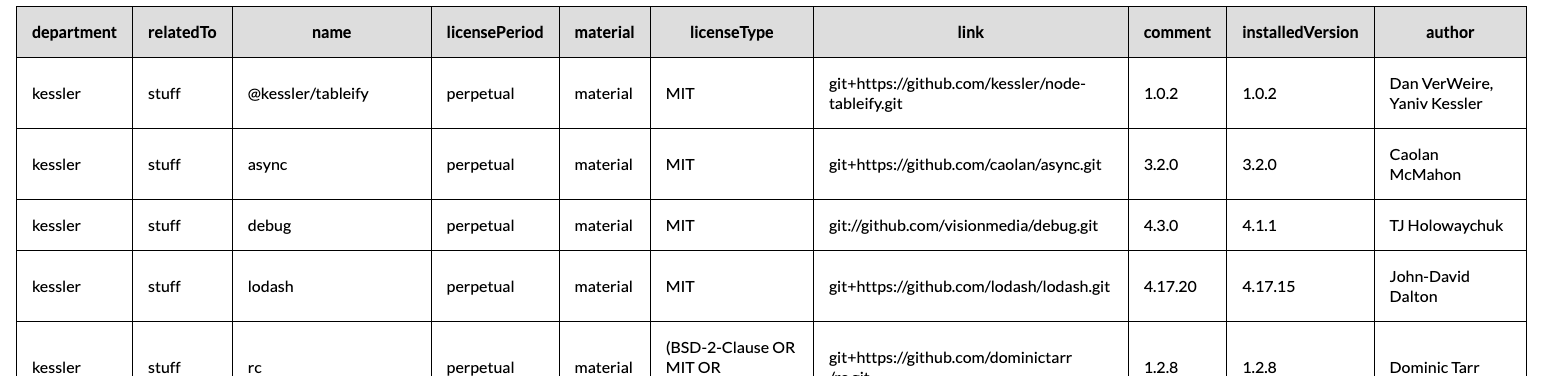
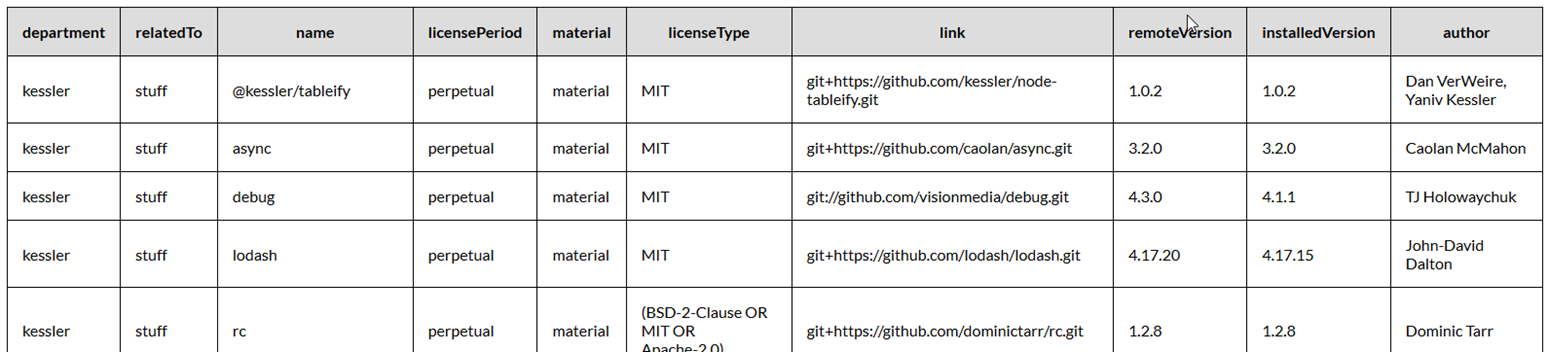
Add field 'remoteVersion' to output and deprecate field 'comment'
Updated readme.md and screenshots; removed 'comment' from default output;
added description for custom config file to readme (for custom field list).

diff --git a/test/endToEnd.test.js b/test/endToEnd.test.js
@@ -70,15 +70,15 @@ describe('end to end test', function() {
 
 var EXPECTED_JSON_RESULT = [{
 		author: 'Dan VerWeire, Yaniv Kessler',
-		comment: '1.0.2',
 		department: 'kessler',
-		installedVersion: '1.0.2',
+		relatedTo: 'stuff',
+		name: '@kessler/tableify',
 		licensePeriod: 'perpetual',
+		material: 'material',
 		licenseType: 'MIT',
 		link: 'git+https://github.com/kessler/node-tableify.git',
-		material: 'material',
-		name: '@kessler/tableify',
-		relatedTo: 'stuff'
+		remoteVersion: '1.0.2',
+		installedVersion: '1.0.2'
 	},
 	{
 		author: 'Caolan McMahon',
@@ -89,7 +89,7 @@ var EXPECTED_JSON_RESULT = [{
 		material: 'material',
 		licenseType: 'MIT',
 		link: 'git+https://github.com/caolan/async.git',
-		comment: '3.2.0',
+		remoteVersion: '3.2.0',
 		installedVersion: '3.2.0'
 	},
 	{
@@ -101,7 +101,7 @@ var EXPECTED_JSON_RESULT = [{
 		material: 'material',
 		licenseType: 'MIT',
 		link: 'git://github.com/visionmedia/debug.git',
-		comment: '4.3.0',
+		remoteVersion: '4.3.0',
 		installedVersion: '4.1.1'
 	},
 	{
@@ -113,7 +113,7 @@ var EXPECTED_JSON_RESULT = [{
 		material: 'material',
 		licenseType: 'MIT',
 		link: 'git+https://github.com/lodash/lodash.git',
-		comment: '4.17.20',
+		remoteVersion: '4.17.20',
 		installedVersion: '4.17.15'
 	},
 	{
@@ -125,7 +125,7 @@ var EXPECTED_JSON_RESULT = [{
 		material: 'material',
 		licenseType: '(BSD-2-Clause OR MIT OR Apache-2.0)',
 		link: 'git+https://github.com/dominictarr/rc.git',
-		comment: '1.2.8',
+		remoteVersion: '1.2.8',
 		installedVersion: '1.2.8'
 	},
 	{
@@ -137,7 +137,7 @@ var EXPECTED_JSON_RESULT = [{
 		material: 'material',
 		licenseType: 'Apache-2.0',
 		link: 'git+https://github.com/request/request.git',
-		comment: '2.88.2',
+		remoteVersion: '2.88.2',
 		installedVersion: '2.88.2'
 	},
 	{
@@ -148,7 +148,7 @@ var EXPECTED_JSON_RESULT = [{
 		material: 'material',
 		licenseType: 'ISC',
 		link: 'git+https://github.com/npm/node-semver.git',
-		comment: '7.3.2',
+		remoteVersion: '7.3.2',
 		installedVersion: '7.3.2'
 	},
 	{
@@ -160,7 +160,7 @@ var EXPECTED_JSON_RESULT = [{
 		material: 'material',
 		licenseType: 'ISC',
 		link: 'git://github.com/grudzinski/stubborn.git',
-		comment: '1.2.5',
+		remoteVersion: '1.2.5',
 		installedVersion: '1.2.5'
 	},
 	{
@@ -172,7 +172,7 @@ var EXPECTED_JSON_RESULT = [{
 		material: 'material',
 		licenseType: 'MIT',
 		link: 'git://github.com/substack/text-table.git',
-		comment: '0.2.0',
+		remoteVersion: '0.2.0',
 		installedVersion: '0.2.0'
 	},
 	{
@@ -184,53 +184,52 @@ var EXPECTED_JSON_RESULT = [{
 		material: 'material',
 		licenseType: 'MIT',
 		link: 'https://github.com/kessler/node-visit-values',
-		comment: '2.0.0',
+		remoteVersion: '2.0.0',
 		installedVersion: '2.0.0'
 	},
 	{
-		comment: '2.0.1',
-		installedVersion: '2.0.1',
 		author: 'Yaniv Kessler',
 		department: 'kessler',
+		relatedTo: 'stuff',
+		name: '@kessler/exponential-backoff',
 		licensePeriod: 'perpetual',
+		material: 'material',
 		licenseType: 'MIT',
 		link: 'https://registry.npmjs.org/@kessler/exponential-backoff/-/exponential-backoff-2.0.1.tgz',
-		material: 'material',
-		name: '@kessler/exponential-backoff',
-		relatedTo: 'stuff'
+		remoteVersion: '2.0.1',
+		installedVersion: '2.0.1'
 	},
 	{
 		author: 'TJ Holowaychuk',
-		comment: '8.1.3',
 		department: 'kessler',
-		installedVersion: '8.1.3',
+		relatedTo: 'stuff',
+		name: 'mocha',
 		licensePeriod: 'perpetual',
+		material: 'material',
 		licenseType: 'MIT',
 		link: 'git+https://github.com/mochajs/mocha.git',
-		material: 'material',
-		name: 'mocha',
-		relatedTo: 'stuff'
+		remoteVersion: '8.2.0',
+		installedVersion: '8.1.3'
 	}
 ]
 
-var EXPECTED_TABLE_RESULT = `department  related to  name                          license period  material / not material  license type                         link                                                                                     comment  installed version  author
-----------  ----------  ----                          --------------  -----------------------  ------------                         ----                                                                                     -------  -----------------  ------
-kessler     stuff       @kessler/tableify             perpetual       material                 MIT                                  git+https://github.com/kessler/node-tableify.git                                         1.0.2    1.0.2              Dan VerWeire, Yaniv Kessler
-kessler     stuff       async                         perpetual       material                 MIT                                  git+https://github.com/caolan/async.git                                                  3.2.0    3.2.0              Caolan McMahon
-kessler     stuff       debug                         perpetual       material                 MIT                                  git://github.com/visionmedia/debug.git                                                   4.3.0    4.1.1              TJ Holowaychuk
-kessler     stuff       lodash                        perpetual       material                 MIT                                  git+https://github.com/lodash/lodash.git                                                 4.17.20  4.17.15            John-David Dalton
-kessler     stuff       rc                            perpetual       material                 (BSD-2-Clause OR MIT OR Apache-2.0)  git+https://github.com/dominictarr/rc.git                                                1.2.8    1.2.8              Dominic Tarr
-kessler     stuff       request                       perpetual       material                 Apache-2.0                           git+https://github.com/request/request.git                                               2.88.2   2.88.2             Mikeal Rogers
-kessler     stuff       semver                        perpetual       material                 ISC                                  git+https://github.com/npm/node-semver.git                                               7.3.2    7.3.2              n/a
-kessler     stuff       stubborn                      perpetual       material                 ISC                                  git://github.com/grudzinski/stubborn.git                                                 1.2.5    1.2.5              Roman Grudzinski
-kessler     stuff       text-table                    perpetual       material                 MIT                                  git://github.com/substack/text-table.git                                                 0.2.0    0.2.0              James Halliday
-kessler     stuff       visit-values                  perpetual       material                 MIT                                  https://github.com/kessler/node-visit-values                                             2.0.0    2.0.0              Yaniv Kessler
-kessler     stuff       @kessler/exponential-backoff  perpetual       material                 MIT                                  https://registry.npmjs.org/@kessler/exponential-backoff/-/exponential-backoff-2.0.1.tgz  2.0.1    2.0.1              Yaniv Kessler
-kessler     stuff       mocha                         perpetual       material                 MIT                                  git+https://github.com/mochajs/mocha.git                                                 8.1.3    8.1.3              TJ Holowaychuk
+var EXPECTED_TABLE_RESULT = `department  related to  name                          license period  material / not material  license type                         link                                                                                     remote version  installed version  author
+----------  ----------  ----                          --------------  -----------------------  ------------                         ----                                                                                     --------------  -----------------  ------
+kessler     stuff       @kessler/tableify             perpetual       material                 MIT                                  git+https://github.com/kessler/node-tableify.git                                         1.0.2           1.0.2              Dan VerWeire, Yaniv Kessler
+kessler     stuff       async                         perpetual       material                 MIT                                  git+https://github.com/caolan/async.git                                                  3.2.0           3.2.0              Caolan McMahon
+kessler     stuff       debug                         perpetual       material                 MIT                                  git://github.com/visionmedia/debug.git                                                   4.3.0           4.1.1              TJ Holowaychuk
+kessler     stuff       lodash                        perpetual       material                 MIT                                  git+https://github.com/lodash/lodash.git                                                 4.17.20         4.17.15            John-David Dalton
+kessler     stuff       rc                            perpetual       material                 (BSD-2-Clause OR MIT OR Apache-2.0)  git+https://github.com/dominictarr/rc.git                                                1.2.8           1.2.8              Dominic Tarr
+kessler     stuff       request                       perpetual       material                 Apache-2.0                           git+https://github.com/request/request.git                                               2.88.2          2.88.2             Mikeal Rogers
+kessler     stuff       semver                        perpetual       material                 ISC                                  git+https://github.com/npm/node-semver.git                                               7.3.2           7.3.2              n/a
+kessler     stuff       stubborn                      perpetual       material                 ISC                                  git://github.com/grudzinski/stubborn.git                                                 1.2.5           1.2.5              Roman Grudzinski
+kessler     stuff       text-table                    perpetual       material                 MIT                                  git://github.com/substack/text-table.git                                                 0.2.0           0.2.0              James Halliday
+kessler     stuff       visit-values                  perpetual       material                 MIT                                  https://github.com/kessler/node-visit-values                                             2.0.0           2.0.0              Yaniv Kessler
+kessler     stuff       @kessler/exponential-backoff  perpetual       material                 MIT                                  https://registry.npmjs.org/@kessler/exponential-backoff/-/exponential-backoff-2.0.1.tgz  2.0.1           2.0.1              Yaniv Kessler
+kessler     stuff       mocha                         perpetual       material                 MIT                                  git+https://github.com/mochajs/mocha.git                                                 8.2.0           8.1.3              TJ Holowaychuk
 `;
 
-
-var EXPECTED_CSV_RESULT = `department,relatedTo,name,licensePeriod,material,licenseType,link,comment,installedVersion,author
+var EXPECTED_CSV_RESULT = `department,relatedTo,name,licensePeriod,material,licenseType,link,remoteVersion,installedVersion,author
 kessler,stuff,@kessler/tableify,perpetual,material,MIT,git+https://github.com/kessler/node-tableify.git,1.0.2,1.0.2,Dan VerWeire, Yaniv Kessler
 kessler,stuff,async,perpetual,material,MIT,git+https://github.com/caolan/async.git,3.2.0,3.2.0,Caolan McMahon
 kessler,stuff,debug,perpetual,material,MIT,git://github.com/visionmedia/debug.git,4.3.0,4.1.1,TJ Holowaychuk
@@ -242,5 +241,5 @@ kessler,stuff,stubborn,perpetual,material,ISC,git://github.com/grudzinski/stubbo
 kessler,stuff,text-table,perpetual,material,MIT,git://github.com/substack/text-table.git,0.2.0,0.2.0,James Halliday
 kessler,stuff,visit-values,perpetual,material,MIT,https://github.com/kessler/node-visit-values,2.0.0,2.0.0,Yaniv Kessler
 kessler,stuff,@kessler/exponential-backoff,perpetual,material,MIT,https://registry.npmjs.org/@kessler/exponential-backoff/-/exponential-backoff-2.0.1.tgz,2.0.1,2.0.1,Yaniv Kessler
-kessler,stuff,mocha,perpetual,material,MIT,git+https://github.com/mochajs/mocha.git,8.1.3,8.1.3,TJ Holowaychuk
+kessler,stuff,mocha,perpetual,material,MIT,git+https://github.com/mochajs/mocha.git,8.2.0,8.1.3,TJ Holowaychuk
 `;

diff --git a/test/expectedOutput.html b/test/expectedOutput.html
@@ -45,6 +45,6 @@ th, td {
     padding: 15px;
 }
 </style>
-<table><thead><tr><th class="string">department</th><th class="string">relatedTo</th><th class="string">name</th><th class="string">licensePeriod</th><th class="string">material</th><th class="string">licenseType</th><th class="string">link</th><th class="string">comment</th><th class="string">installedVersion</th><th class="string">author</th></tr></thead><tbody><tr><td class="string">kessler</td><td class="string">stuff</td><td class="string">@kessler/tableify</td><td class="string">perpetual</td><td class="string">material</td><td class="string">MIT</td><td class="string">git+https://github.com/kessler/node-tableify.git</td><td class="string">1.0.2</td><td class="string">1.0.2</td><td class="string">Dan VerWeire, Yaniv Kessler</td></tr><tr><td class="string">kessler</td><td class="string">stuff</td><td class="string">async</td><td class="string">perpetual</td><td class="string">material</td><td class="string">MIT</td><td class="string">git+https://github.com/caolan/async.git</td><td class="string">3.2.0</td><td class="string">3.2.0</td><td class="string">Caolan McMahon</td></tr><tr><td class="string">kessler</td><td class="string">stuff</td><td class="string">debug</td><td class="string">perpetual</td><td class="string">material</td><td class="string">MIT</td><td class="string">git://github.com/visionmedia/debug.git</td><td class="string">4.3.0</td><td class="string">4.1.1</td><td class="string">TJ Holowaychuk</td></tr><tr><td class="string">kessler</td><td class="string">stuff</td><td class="string">lodash</td><td class="string">perpetual</td><td class="string">material</td><td class="string">MIT</td><td class="string">git+https://github.com/lodash/lodash.git</td><td class="string">4.17.20</td><td class="string">4.17.15</td><td class="string">John-David Dalton</td></tr><tr><td class="string">kessler</td><td class="string">stuff</td><td class="string">rc</td><td class="string">perpetual</td><td class="string">material</td><td class="string">(BSD-2-Clause OR MIT OR Apache-2.0)</td><td class="string">git+https://github.com/dominictarr/rc.git</td><td class="string">1.2.8</td><td class="string">1.2.8</td><td class="string">Dominic Tarr</td></tr><tr><td class="string">kessler</td><td class="string">stuff</td><td class="string">request</td><td class="string">perpetual</td><td class="string">material</td><td class="string">Apache-2.0</td><td class="string">git+https://github.com/request/request.git</td><td class="string">2.88.2</td><td class="string">2.88.2</td><td class="string">Mikeal Rogers</td></tr><tr><td class="string">kessler</td><td class="string">stuff</td><td class="string">semver</td><td class="string">perpetual</td><td class="string">material</td><td class="string">ISC</td><td class="string">git+https://github.com/npm/node-semver.git</td><td class="string">7.3.2</td><td class="string">7.3.2</td><td class="undefined"></td></tr><tr><td class="string">kessler</td><td class="string">stuff</td><td class="string">stubborn</td><td class="string">perpetual</td><td class="string">material</td><td class="string">ISC</td><td class="string">git://github.com/grudzinski/stubborn.git</td><td class="string">1.2.5</td><td class="string">1.2.5</td><td class="string">Roman Grudzinski</td></tr><tr><td class="string">kessler</td><td class="string">stuff</td><td class="string">text-table</td><td class="string">perpetual</td><td class="string">material</td><td class="string">MIT</td><td class="string">git://github.com/substack/text-table.git</td><td class="string">0.2.0</td><td class="string">0.2.0</td><td class="string">James Halliday</td></tr><tr><td class="string">kessler</td><td class="string">stuff</td><td class="string">visit-values</td><td class="string">perpetual</td><td class="string">material</td><td class="string">MIT</td><td class="string">https://github.com/kessler/node-visit-values</td><td class="string">2.0.0</td><td class="string">2.0.0</td><td class="string">Yaniv Kessler</td></tr><tr><td class="string">kessler</td><td class="string">stuff</td><td class="string">@kessler/exponential-backoff</td><td class="string">perpetual</td><td class="string">material</td><td class="string">MIT</td><td class="string">https://registry.npmjs.org/@kessler/exponential-backoff/-/exponential-backoff-2.0.1.tgz</td><td class="string">2.0.1</td><td class="string">2.0.1</td><td class="string">Yaniv Kessler</td></tr><tr><td class="string">kessler</td><td class="string">stuff</td><td class="string">mocha</td><td class="string">perpetual</td><td class="string">material</td><td class="string">MIT</td><td class="string">git+https://github.com/mochajs/mocha.git</td><td class="string">8.1.3</td><td class="string">8.1.3</td><td class="string">TJ Holowaychuk</td></tr></tbody></table>
+<table><thead><tr><th class="string">department</th><th class="string">relatedTo</th><th class="string">name</th><th class="string">licensePeriod</th><th class="string">material</th><th class="string">licenseType</th><th class="string">link</th><th class="string">remoteVersion</th><th class="string">installedVersion</th><th class="string">author</th></tr></thead><tbody><tr><td class="string">kessler</td><td class="string">stuff</td><td class="string">@kessler/tableify</td><td class="string">perpetual</td><td class="string">material</td><td class="string">MIT</td><td class="string">git+https://github.com/kessler/node-tableify.git</td><td class="string">1.0.2</td><td class="string">1.0.2</td><td class="string">Dan VerWeire, Yaniv Kessler</td></tr><tr><td class="string">kessler</td><td class="string">stuff</td><td class="string">async</td><td class="string">perpetual</td><td class="string">material</td><td class="string">MIT</td><td class="string">git+https://github.com/caolan/async.git</td><td class="string">3.2.0</td><td class="string">3.2.0</td><td class="string">Caolan McMahon</td></tr><tr><td class="string">kessler</td><td class="string">stuff</td><td class="string">debug</td><td class="string">perpetual</td><td class="string">material</td><td class="string">MIT</td><td class="string">git://github.com/visionmedia/debug.git</td><td class="string">4.3.0</td><td class="string">4.1.1</td><td class="string">TJ Holowaychuk</td></tr><tr><td class="string">kessler</td><td class="string">stuff</td><td class="string">lodash</td><td class="string">perpetual</td><td class="string">material</td><td class="string">MIT</td><td class="string">git+https://github.com/lodash/lodash.git</td><td class="string">4.17.20</td><td class="string">4.17.15</td><td class="string">John-David Dalton</td></tr><tr><td class="string">kessler</td><td class="string">stuff</td><td class="string">rc</td><td class="string">perpetual</td><td class="string">material</td><td class="string">(BSD-2-Clause OR MIT OR Apache-2.0)</td><td class="string">git+https://github.com/dominictarr/rc.git</td><td class="string">1.2.8</td><td class="string">1.2.8</td><td class="string">Dominic Tarr</td></tr><tr><td class="string">kessler</td><td class="string">stuff</td><td class="string">request</td><td class="string">perpetual</td><td class="string">material</td><td class="string">Apache-2.0</td><td class="string">git+https://github.com/request/request.git</td><td class="string">2.88.2</td><td class="string">2.88.2</td><td class="string">Mikeal Rogers</td></tr><tr><td class="string">kessler</td><td class="string">stuff</td><td class="string">semver</td><td class="string">perpetual</td><td class="string">material</td><td class="string">ISC</td><td class="string">git+https://github.com/npm/node-semver.git</td><td class="string">7.3.2</td><td class="string">7.3.2</td><td class="undefined"></td></tr><tr><td class="string">kessler</td><td class="string">stuff</td><td class="string">stubborn</td><td class="string">perpetual</td><td class="string">material</td><td class="string">ISC</td><td class="string">git://github.com/grudzinski/stubborn.git</td><td class="string">1.2.5</td><td class="string">1.2.5</td><td class="string">Roman Grudzinski</td></tr><tr><td class="string">kessler</td><td class="string">stuff</td><td class="string">text-table</td><td class="string">perpetual</td><td class="string">material</td><td class="string">MIT</td><td class="string">git://github.com/substack/text-table.git</td><td class="string">0.2.0</td><td class="string">0.2.0</td><td class="string">James Halliday</td></tr><tr><td class="string">kessler</td><td class="string">stuff</td><td class="string">visit-values</td><td class="string">perpetual</td><td class="string">material</td><td class="string">MIT</td><td class="string">https://github.com/kessler/node-visit-values</td><td class="string">2.0.0</td><td class="string">2.0.0</td><td class="string">Yaniv Kessler</td></tr><tr><td class="string">kessler</td><td class="string">stuff</td><td class="string">@kessler/exponential-backoff</td><td class="string">perpetual</td><td class="string">material</td><td class="string">MIT</td><td class="string">https://registry.npmjs.org/@kessler/exponential-backoff/-/exponential-backoff-2.0.1.tgz</td><td class="string">2.0.1</td><td class="string">2.0.1</td><td class="string">Yaniv Kessler</td></tr><tr><td class="string">kessler</td><td class="string">stuff</td><td class="string">mocha</td><td class="string">perpetual</td><td class="string">material</td><td class="string">MIT</td><td class="string">git+https://github.com/mochajs/mocha.git</td><td class="string">8.2.0</td><td class="string">8.1.3</td><td class="string">TJ Holowaychuk</td></tr></tbody></table>
 </body>
 </html>

diff --git a/lib/getPackageReportData.js b/lib/getPackageReportData.js
@@ -27,7 +27,7 @@ function getPackageReportData(packageEntry, callback) {
 		var message = util.format('skipping %s (invalid semversion)', toPackageString(packageEntry))
 
 		//**
-		return callback(null, { name: packageEntry.fullName, comment: message })
+		return callback(null, { name: packageEntry.fullName, remoteVersion: message })
 	}
 
 	var fullPackageName = packageEntry.fullName
@@ -60,10 +60,11 @@ function getPackageReportData(packageEntry, callback) {
 
 		callback(null, {
 			name: fullPackageName,
-			installedVersion: installedVersion,
 			author: author,
 			licenseType: extractLicense(versionData),
 			link: extractLink(versionData),
+			installedVersion: installedVersion,
+			remoteVersion: version.toString(),
 			comment: version.toString()
 		})
 	})

diff --git a/lib/config.js b/lib/config.js
@@ -51,7 +51,7 @@ var config = module.exports = rc('license-report', {
 		'material',
 		'licenseType',
 		'link',
-		'comment',
+		'remoteVersion',
 		'installedVersion',
 		'author'
 	],
@@ -84,9 +84,9 @@ var config = module.exports = rc('license-report', {
 		value: 'n/a',
 		label: 'link'
 	},
-	comment: {
+	remoteVersion: {
 		value: '',
-		label: 'comment'
+		label: 'remote version'
 	},
 	installedVersion: {
 		value: 'n/a',
@@ -95,6 +95,10 @@ var config = module.exports = rc('license-report', {
 	author: {
 		value: 'n/a',
 		label: 'author'
+	},
+	comment: {
+		value: '',
+		label: 'comment'
 	},
 	httpRetryOptions: {
 		maxAttempts: 5,

diff --git a/lib/packageDataToReportData.js b/lib/packageDataToReportData.js
@@ -3,7 +3,7 @@ module.exports = packageDataToReportData
 /**
  * Add fields from config.fields to object with information about one package.
  * Only fields from field list will be returned in generated object.
- * @param packageData - object with information about one package (fields 'name', 'licenseType', 'link', 'comment')
+ * @param packageData - object with information about one package (default fields 'name', 'licenseType', 'link', 'remoteVersion', 'installedVersion', 'author')
  * @param config - global configuration object
  * @returns object with all fields listed in config.fields
  */

diff --git a/test/getPackageReportData.test.js b/test/getPackageReportData.test.js
@@ -22,8 +22,7 @@ describe('getPackageReportData', function() {
 			if (err) return done(err)
 
 			assert.strictEqual(data.name, 'async')
-			assert.strictEqual(data.comment, 'skipping async@a.b.c (invalid semversion)')
-
+			assert.strictEqual(data.remoteVersion, 'skipping async@a.b.c (invalid semversion)')
 			done()
 		})
 	})

diff --git a/README.md b/README.md
@@ -62,6 +62,29 @@ license-report --output=html --html.cssFile=/a/b/c.css
 license-report --output=html | hcat
 ```
 
+#### select fields for output:
+```
+# set options with command line options and config file
+license-report --output=csv --config license-report-config.json
+```
+```
+# example of config file for backward compatible output:
+{
+  "fields": [
+    "department",
+    "relatedTo",
+    "name",
+    "licensePeriod",
+    "material",
+    "licenseType",
+    "link",
+    "comment",
+    "installedVersion",
+    "author"
+  ]
+}
+```
+
 #### exclude:
 ```
 license-report --exclude=async --exclude=rc
@@ -79,7 +102,10 @@ Fields with data of the installed packages:
 | name | name | name of the package |
 | licenseType | license type | type of the license of the package (e.g. MIT) |
 | link | link | link to the repository of the package |
-| comment | comment | latest available version of the package (can be different from the installed version) |
+| remoteVersion | remoteVersion | latest available version of the package (can be different from the installed version) |
+| installedVersion | installedVersion | installed version of the package (can be different from the remote version) |
+| comment | comment | deprecated (replaced by field 'remoteVersion'); will be removed in a future version |
+| author | author | author of the package |
 
 Fields with data set in the configuration of license-report:
 | fieldname | column title | set value |
